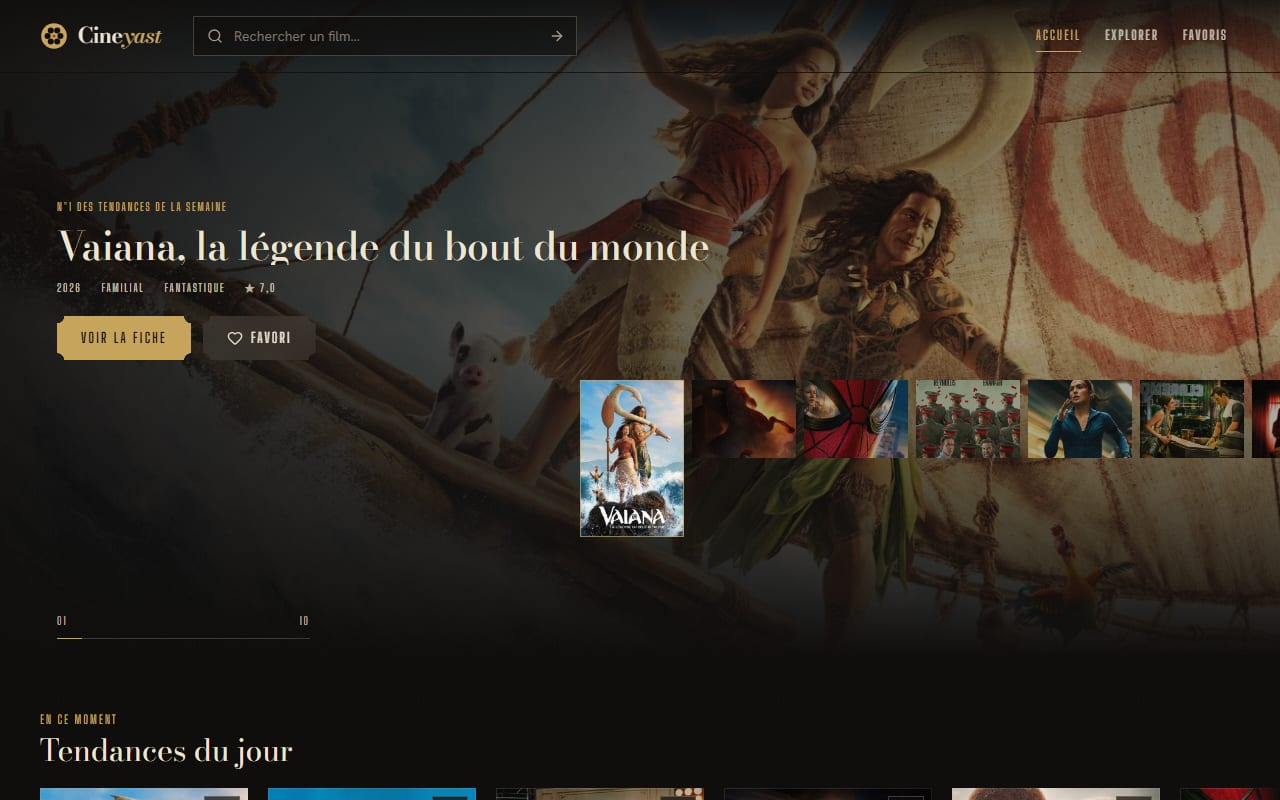
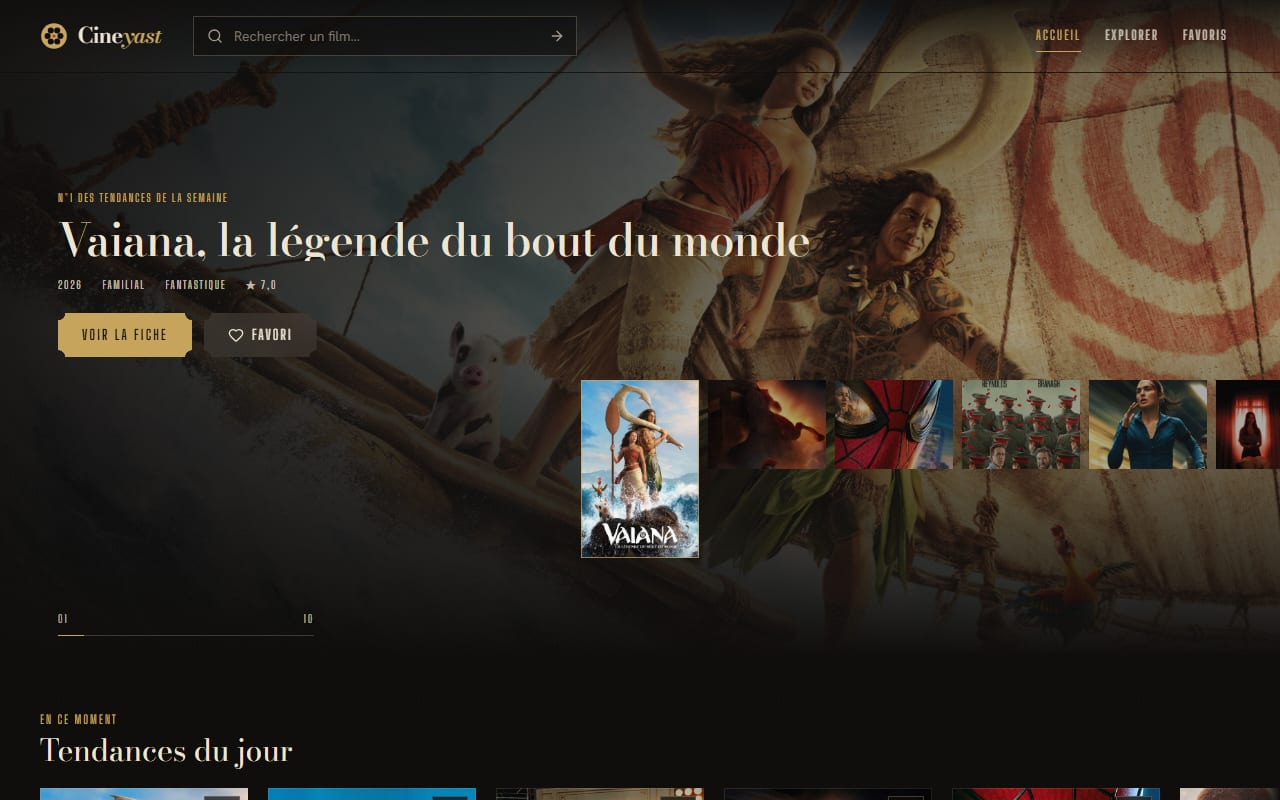
Remplace les captures du README par des captures de production
Capturées sur le site déployé (cineyast.vercel.app) via le protocole CDP,
qui permet d'attendre en temps réel : animations terminées et carrousel
encore sur sa première diapo. Le mode headless classique fausse le rendu,
son option --virtual-time-budget accélérant les minuteurs.

diff --git a/README.md b/README.md
@@ -9,11 +9,11 @@ Conçu et développé par **Yassine Boukamir**. Toutes les données viennent de 
 
 ![Page d'accueil de Cineyast : carrousel des tendances de la semaine](docs/capture-accueil.jpg)
 
-*Accueil — les tendances de la semaine dans un carrousel « pellicule », données réelles de l'API TMDB.*
+*Accueil du site en production — les tendances de la semaine dans un carrousel « pellicule », données réelles de l'API TMDB.*
 
 ![Fiche détaillée du film Fight Club : affiche, note, réalisation et bande-annonce](docs/capture-fiche.jpg)
 
-*Fiche film — note, classification française, casting, bande-annonce et recommandations.*
+*Fiche film en production — note, classification française, casting, bande-annonce et recommandations.*
 
 ## Stack
 
